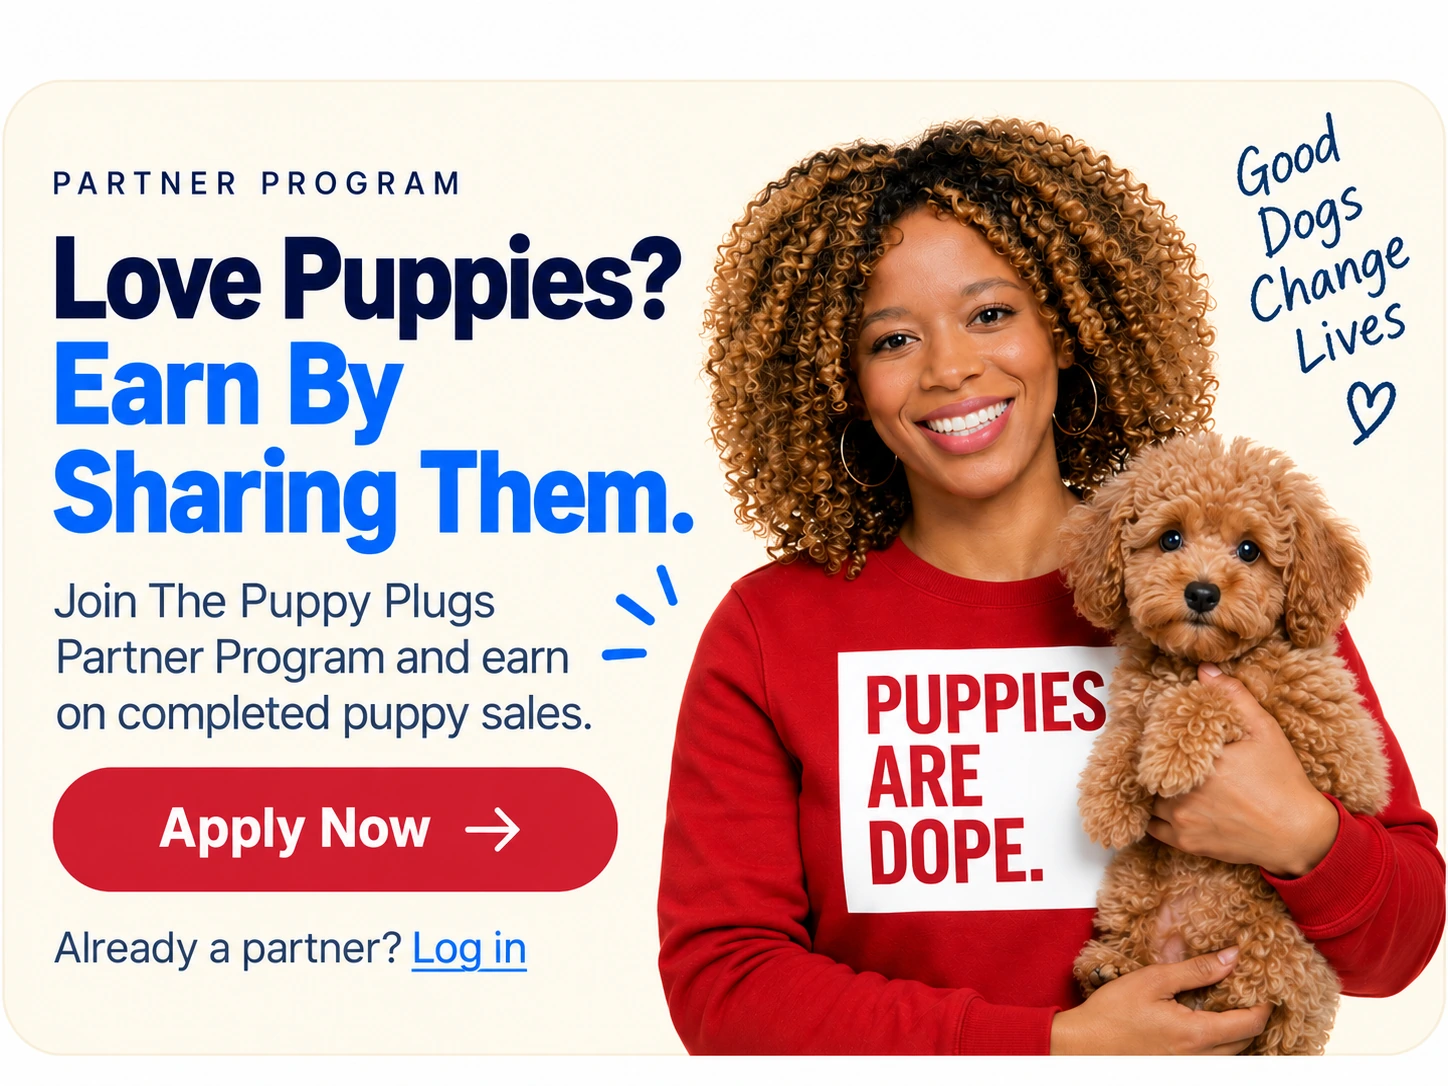
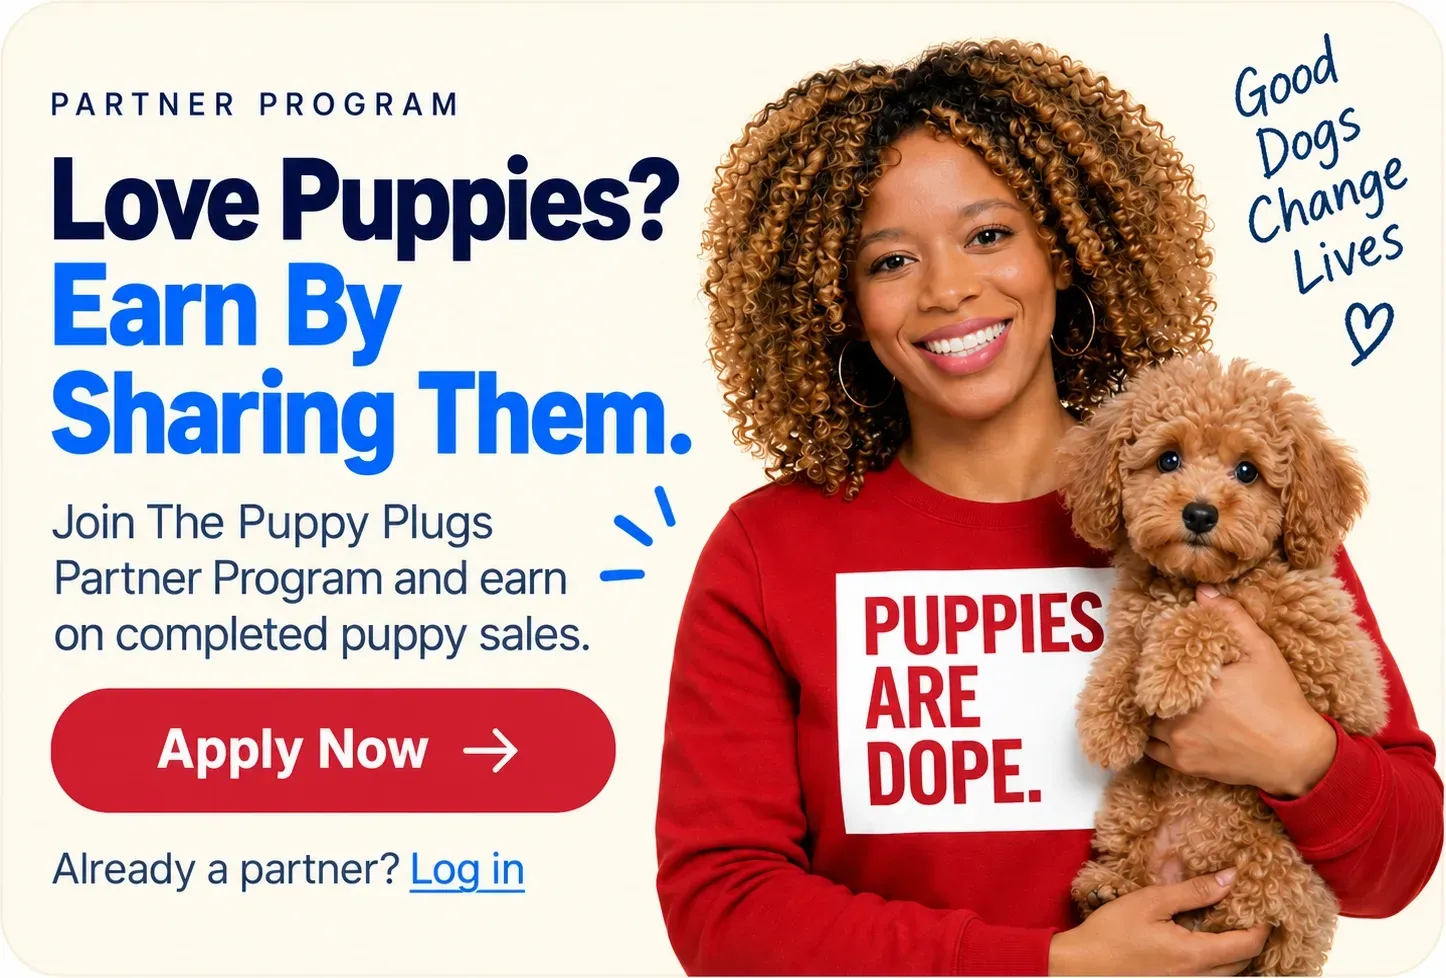
Fix Partner Program mobile spacing and grid layout to match reference
Root cause of the big gap under the hero: the banner image FILE itself
had white empty margin baked into its pixels around the visible cream
card (roughly 79px on top, ~29px on the bottom, out of 1086px total) -
that's not something any CSS margin/padding change could fix, since it
scales proportionally with the image no matter what. Used sharp's
trim() to crop the file down to just the visible card (1448x1086 ->
1446x978) and recomputed the Apply Now/Log in hotspot percentages
against the new dimensions.

Also tightened the actual CSS spacing that was independently too
loose:
- Hero bottom margin 32px -> 16px
- Section bottom padding 32px -> 16px (How It Works, FAQ)
- Why Partner top padding 28px -> 16px, bottom 32px -> 20px (kept the
  bottom-padding reduction too for a consistent rhythm across every
  section transition, not just the two called out - happy to revert
  that one specifically if only those two gaps were meant to change)

How It Works: switched from a 2x2 grid to 4-across (matching the
reference), with much smaller padding/icon/text to fit - this was the
"if too tight, fall back to 2x2" case from the earlier round, but the
reference shows 4 compact columns fitting cleanly.

Why Partner With Us: rebuilt as a single 6-column grid where the first
3 cards span 2 columns each (3 across) and the last 2 span 3 columns
each (2 across) - a true 3-then-2 layout, not the previous 2/1(wide)/2
arrangement, with matching smaller padding/icon/text.

diff --git a/app/(public)/partners/apply/partner-landing.css b/app/(public)/partners/apply/partner-landing.css
@@ -29,7 +29,7 @@
 }
 
 .partner-section {
-  padding: 0 20px 32px;
+  padding: 0 20px 16px;
 }
 
 .partner-section-title {
@@ -43,7 +43,7 @@
   font-size: 13px;
   font-weight: 600;
   color: var(--pp-muted);
-  margin: 0 0 16px;
+  margin: 0 0 12px;
   line-height: 1.5;
 }
 
@@ -55,7 +55,7 @@
 /* ---------------------------------------------------------------- */
 .partner-hero {
   position: relative;
-  margin: 16px 20px 32px;
+  margin: 16px 20px 16px;
   border-radius: 18px;
   overflow: hidden;
   line-height: 0; /* removes the few px of inline-image whitespace below the img */
@@ -72,17 +72,20 @@
   display: block;
 }
 
-/* Percentages measured against the banner's actual 1448x1086 pixels. */
+/* Percentages measured against the banner's actual (now-cropped)
+   1446x978 pixels - recomputed after trimming the file's own baked-in
+   white margin (see the implementation report: that margin, not CSS
+   spacing, was the real cause of the big gap under the hero). */
 .partner-hero-hotspot--apply {
   left: 3%;
   top: 70%;
   width: 40%;
-  height: 10%;
+  height: 11%;
 }
 
 .partner-hero-hotspot--login {
   left: 3%;
-  top: 84%;
+  top: 85%;
   width: 34%;
   height: 8%;
 }
@@ -90,43 +93,52 @@
 /* ---------------------------------------------------------------- */
 /* How It Works                                                      */
 /* ---------------------------------------------------------------- */
+/* 4-across on mobile, matching the reference exactly - the earlier
+   2x2 version was the "if too tight, fall back" option, but the
+   reference shows 4 compact columns fitting cleanly, so that's the
+   target: much smaller padding/icon/text than a normal card grid. */
 .partner-steps-grid {
   display: grid;
-  grid-template-columns: repeat(2, 1fr);
-  gap: 10px;
+  grid-template-columns: repeat(4, 1fr);
+  gap: 6px;
 }
 
 .partner-step-card {
   background: #fff;
   border: 1px solid var(--pp-border);
-  border-radius: var(--pp-radius);
-  padding: 14px 12px;
+  border-radius: 10px;
+  padding: 8px 6px;
   box-shadow: var(--pp-shadow);
 }
 
 .partner-step-icon {
-  width: 38px;
-  height: 38px;
+  width: 28px;
+  height: 28px;
   border-radius: 50%;
   display: flex;
   align-items: center;
   justify-content: center;
-  margin-bottom: 10px;
+  margin-bottom: 6px;
+}
+
+.partner-step-icon svg {
+  width: 15px;
+  height: 15px;
 }
 
 .partner-step-title {
-  font-size: 13px;
+  font-size: 10.5px;
   font-weight: 800;
   color: var(--pp-text);
-  line-height: 1.3;
-  margin-bottom: 3px;
+  line-height: 1.25;
+  margin-bottom: 2px;
 }
 
 .partner-step-desc {
-  font-size: 11.5px;
+  font-size: 9px;
   font-weight: 600;
   color: var(--pp-muted);
-  line-height: 1.5;
+  line-height: 1.35;
 }
 
 /* ---------------------------------------------------------------- */
@@ -134,32 +146,38 @@
 /* ---------------------------------------------------------------- */
 .partner-whyus {
   background: var(--pp-blue-light);
-  padding: 28px 20px 32px;
+  padding: 16px 20px 20px;
 }
 
+/* 3-across then 2-across, both rows filling the full width evenly -
+   a single 6-unit grid where top-row cards span 2 units (3 x 2 = 6)
+   and bottom-row cards span 3 units (2 x 3 = 6), rather than a plain
+   2-column grid (which would give 2/1/2, not 3/2) or two separate
+   grids. */
 .partner-whyus-grid {
   display: grid;
-  grid-template-columns: repeat(2, 1fr);
-  gap: 10px;
+  grid-template-columns: repeat(6, 1fr);
+  gap: 8px;
 }
 
 .partner-whyus-card {
+  grid-column: span 2;
   background: #fff;
-  border-radius: var(--pp-radius);
-  padding: 14px;
+  border-radius: 10px;
+  padding: 10px 8px;
   display: flex;
   align-items: flex-start;
-  gap: 10px;
+  gap: 6px;
 }
 
-.partner-whyus-card--wide {
-  grid-column: 1 / -1;
+.partner-whyus-card--half {
+  grid-column: span 3;
 }
 
 .partner-whyus-icon {
   flex-shrink: 0;
-  width: 34px;
-  height: 34px;
+  width: 26px;
+  height: 26px;
   border-radius: 50%;
   background: var(--pp-blue-light);
   color: var(--pp-blue);
@@ -168,19 +186,24 @@
   justify-content: center;
 }
 
+.partner-whyus-icon svg {
+  width: 14px;
+  height: 14px;
+}
+
 .partner-whyus-title {
-  font-size: 12.5px;
+  font-size: 10.5px;
   font-weight: 800;
   color: var(--pp-text);
-  line-height: 1.3;
+  line-height: 1.25;
   margin-bottom: 2px;
 }
 
 .partner-whyus-desc {
-  font-size: 11px;
+  font-size: 9px;
   font-weight: 600;
   color: var(--pp-muted);
-  line-height: 1.45;
+  line-height: 1.35;
 }
 
 /* ---------------------------------------------------------------- */

diff --git a/components/partners/PartnerWhyUs.tsx b/components/partners/PartnerWhyUs.tsx
@@ -43,12 +43,15 @@ function CoinsIcon() {
   );
 }
 
+// First 3 sit on the top row (2-of-6 columns each = 3 across), last 2
+// on the bottom row (3-of-6 columns each = 2 across) - see the
+// .partner-whyus-card--half comment in partner-landing.css.
 const FEATURES = [
   { title: "Unique Referral Links", desc: "Your own custom tracking links.", icon: <LinkIcon /> },
   { title: "Promote Specific Puppies", desc: "Share individual puppies or our Puppy Finder.", icon: <PawIcon /> },
-  { title: "Ready-to-Share Creatives", desc: "Get photos, videos and content that converts.", icon: <ImageIcon />, wide: true },
-  { title: "Track Clicks & Sales", desc: "See your performance in real time.", icon: <ChartIcon /> },
-  { title: "Earn Commissions", desc: "Get paid on completed puppy sales after the approval period.", icon: <CoinsIcon /> },
+  { title: "Ready-to-Share Creatives", desc: "Get photos, videos and content that converts.", icon: <ImageIcon /> },
+  { title: "Track Clicks & Sales", desc: "See your performance in real time.", icon: <ChartIcon />, half: true },
+  { title: "Earn Commissions", desc: "Get paid on completed puppy sales after the approval period.", icon: <CoinsIcon />, half: true },
 ];
 
 export default function PartnerWhyUs() {
@@ -59,7 +62,7 @@ export default function PartnerWhyUs() {
 
       <div className="partner-whyus-grid">
         {FEATURES.map((f) => (
-          <div key={f.title} className={`partner-whyus-card${f.wide ? " partner-whyus-card--wide" : ""}`}>
+          <div key={f.title} className={`partner-whyus-card${f.half ? " partner-whyus-card--half" : ""}`}>
             <div className="partner-whyus-icon">{f.icon}</div>
             <div>
               <div className="partner-whyus-title">{f.title}</div>
